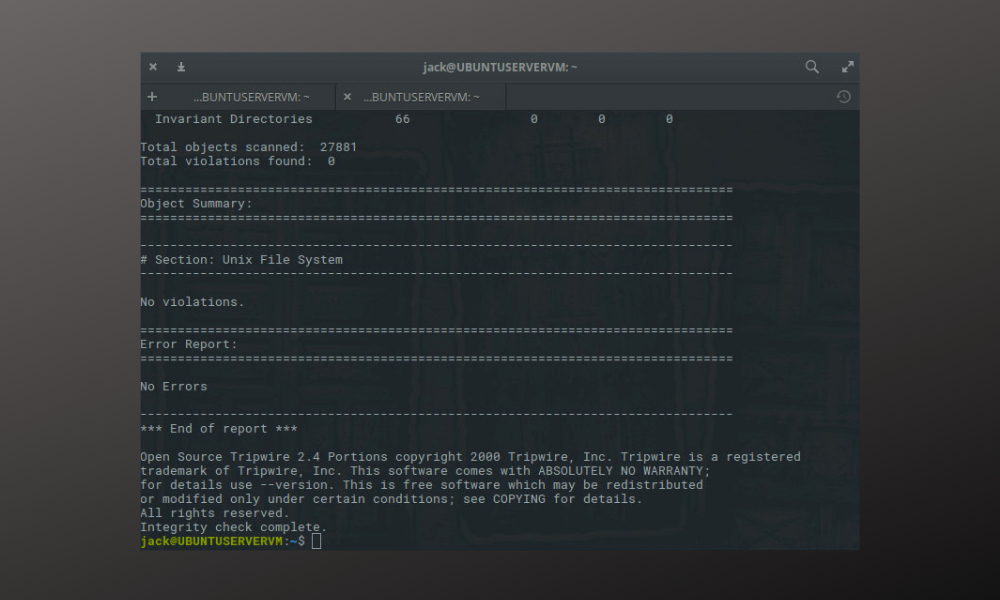
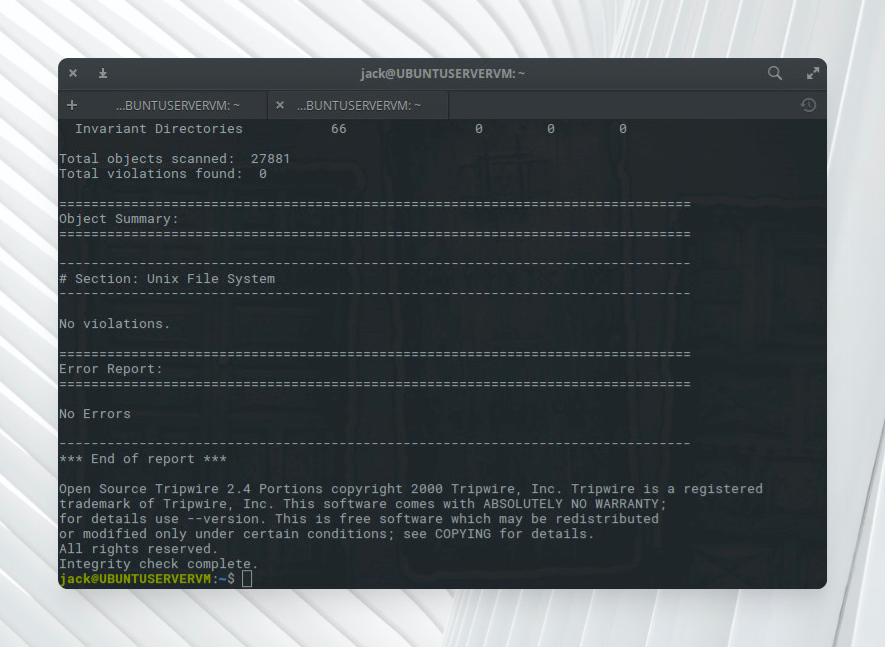
fix: update post images :art:

diff --git a/src/_posts/standardnotes/2019-12-06-standardnotes.md b/src/_posts/standardnotes/2019-12-06-standardnotes.md
@@ -4,7 +4,7 @@ title: "Standard Notes Selfhosted Installation"
 tags: ["servers", "linux", "standardnotes"]
 category: "linux"
 cover:
-  imageFile: "standardnotes/cover.jpg"
+  imageFile: "standardnotes/cover.png"
 ---
 
 # What?
